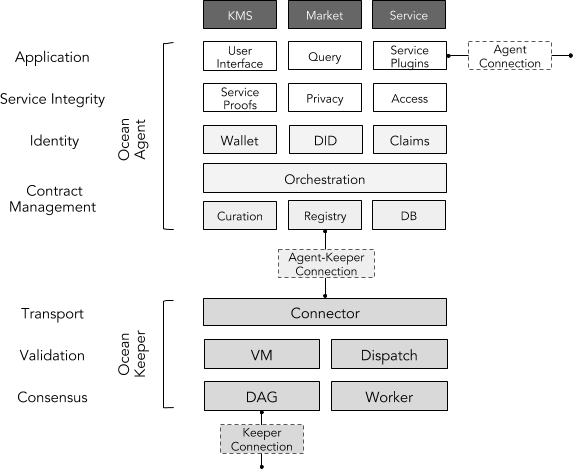
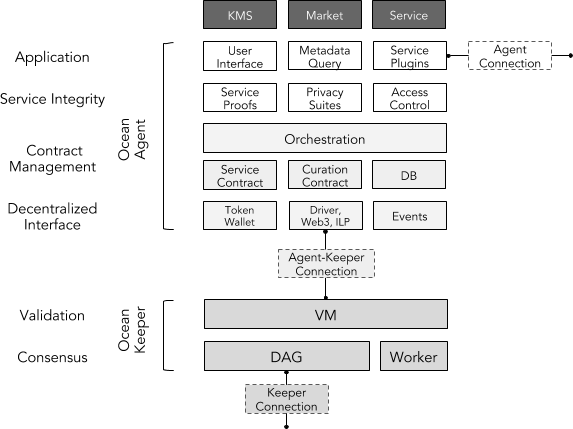
decentralized interface

diff --git a/3/README.md b/3/README.md
@@ -1,20 +1,20 @@
 ```
 shortname: 3/ARCH
-name: Ocean Protocol Architecture
+name: Ocean Protocol Network Architecture
 type: Standard
 status: Raw
-editor: Aitor Argomaniz <aitor@oceanprotocol.com>
-contributors: Dimitri De Jonghe <dimi@oceanprotocol.com>
+editor: Dimitri De Jonghe <dimi@oceanprotocol.com>
+contributors: Aitor Argomaniz <aitor@oceanprotocol.com>
 ```
 
-# Ocean Protocol Architecture
+# Ocean Protocol Network Architecture
 
 This document gives an overview of the Ocean Network Architecture. 
 It specifies what components can be found in the network and how they interact with each other.
 
 This specification is based on [Ocean Protocol technical whitepaper](https://github.com/oceanprotocol/whitepaper).
 
-This specification is called **NETWORK** henceforth.
+This specification is called **ARCH** henceforth.
 
 ## Change Process
 This document is governed by the [2/COSS](../2/README.md) (COSS).
@@ -25,24 +25,28 @@ The key words "MUST", "MUST NOT", "REQUIRED", "SHALL", "SHALL NOT", "SHOULD", "S
 ## Motivation
 
 Ocean Protocol connects data service PROVIDERS with CONSUMERS using 
- agreements to ensure payments, audit trails and privacy.
+contractual agreements to ensure attribution, payments, audit trails and privacy.
+Data service providers are seen in the broad sense of a data intelligence ecosystem:
+data, scripts, algorithms, storage, computation, scheduling, privacy and more. 
 
-The NETWORK covers a conceptual framework for provisioning contractual CONNECTIONS,
-an overview of the Ocean Network architecture and it's building blocks,
+The ARCH covers a conceptual framework for provisioning contractual CONNECTIONS,
+an overview of the network architecture and it's building blocks,
 as well as a suite of protocols that implements the design. 
 
-This NETWORK is heavily inspired by the Internet architecture described in 
+This ARCH is inspired by 
+the [web3.js](https://github.com/ethereum/web3.js/) implementation, 
+the Internet architecture described in 
 [RFC 1122](https://tools.ietf.org/html/rfc1122), 
 [RFC 1123](https://tools.ietf.org/html/rfc1123) and 
 [RFC 1009](https://tools.ietf.org/html/rfc1009) and the 
 [Interledger Protocol (ILP)](https://github.com/interledger/rfcs/blob/master/0001-interledger-architecture/0001-interledger-architecture.md#interledger-architecture).
 
-This document MUST to provide a common framework used describing the network together with the relevant components, protocols and interactions. 
+This document MUST provide a common framework used describing the network together with the relevant components, protocols and interactions. 
 All the different components described SHOULD be used as building blocks, allowing to compose the different scenarios using them.
 
 ## Design Requirements
 
-The following design requirements should guide the development of the Ocean Protocol:
+The following design requirements guide the development of the Ocean Protocol:
 
 * MUST use an open protocol, accessible to clients using any technology stack
 * MUST be decentralized in ownership of vision, mission, governance, implementation and usage
@@ -56,7 +60,8 @@ The following design requirements should guide the development of the Ocean Prot
     - Machine learning operations
     - Data interaction and visualisation libraries
 * MUST support off-chain operations for storage and compute
-* MUST enable interoperability (i.e. sharing of data assets and services) between multiple marketplace implementations and multiple technology stacks
+* MUST enable interoperability (i.e. sharing of data assets and services) between multiple marketplace implementations 
+and multiple decentralized and centralized technology stacks 
 * MUST store a record of all asset provenance
 * MUST allow metadata governance (as defined by domain specific use cases)
 * MUST allow custom control logic for assets and interactions
@@ -69,8 +74,13 @@ The following design requirements should guide the development of the Ocean Prot
 Ocean protocol facilitates a decentralized network to connect data services in a data service supply chain.
 
 Decentralization impacts the network design in the following ways:
-- there are no centralized services, message or identity brokers
-- connections between points in the network are self-sovereign and contractual by consensus
+
+- there are no centralized components at the protocol level
+- nodes in the network are assumed to be Byzantine and Sybil actors
+- events and messages in the network are recorded as signed transactions
+- the full history of transactions is stored as a cryptographically linked data structure
+- business logic that triggers state transitions  
+
 
 ![Combination of Building Blocks](images/ocean-model.png)
 
@@ -165,7 +175,7 @@ A blockchain component with smart contract abilities:
 * Interacts with the AGENTS through transactions. 
 * Executes the Smart Contracts. The VM serves as a deterministic state transition mechanism.
 * Stores transactions, blocks and contract state - such as bytecode, proofs, variables - in a Directed Acyclic Graph (DAG). 
-* Is a validation engine for Unspent Transaction Outputs (UTXO) and contract logic.
+* Is a validation engine for transaction and contract logic.
 * MUST be [power-fault tolerant](https://filecoin.io/power-fault-tolerance.pdf) (PFT) 
 
 #### Ocean DB
@@ -273,7 +283,7 @@ Details of the privacy module are discussed in [#TODO:OEP-PRIVACY](../<PRIVACY>/
 
 #### Access Control
 
-Service CONTRACTs in the Ocean network are the basis for access permissions between AGENTS.
+Service CONTRACTS in the Ocean network are the basis for access permissions between AGENTS.
 The access layer foresees CONTRACT-based authentication and authorization for end-to-end CONNECTIONS.
 
 The way access can be granted depends heavily on the type of data service and MAY include
@@ -281,44 +291,39 @@ signed tokens, signed URLs, on-chain role-based access control (RBAC), OAuth and
 
 Details of the access module are discussed in [#TODO:OEP-ACCESS](../<ACCESS>/README.md) 
 
-### Identity Layer
-
-The Identity layer provides modules to create sufficient network-specific identity components such as wallets, 
-decentralized identity objects and publicly verifiable claims related to identity.
-
-This layer provides account management libraries and ensures that ledger-specific transactions can be composed and signed.
-
-Details of the identity layer are discussed in [#TODO:OEP-IDENTITY](../<TRANSPORT>/README.md) 
 
 ### Contract Management 
 
-Transport layer protocols foresee the coordination of a service CONTRACT between all involved AGENTS and KEEPER networks.
+The contract management layer foresees the coordination of a service CONTRACT between all involved AGENTS and KEEPER networks.
 
 Example contract protocols include peer-to-peer escrow contracts, marketplace-based contracts, 
 as well as CONTRACT resolution mechanisms such as judging and verification.
 
+Details of the contract management layer are discussed in [#TODO:OEP-CONTRACT-MANAGEMENT](../<CONTRACT-MANAGEMENT>/README.md) 
+
+### Decentralized Interface
+
+The decentralized interface layer provides modules to create sufficient token and network specific components such as wallets and drivers
+This layer provides account management libraries and ensures that ledger-specific transactions can be composed and signed.
+
 This layer SHOULD also listen to events generated by state changes on the keeper 
 and provide necessary callbacks and hooks. 
 
-Details of the contract management layer are discussed in [#TODO:OEP-CONTRACT-MANAGEMENT](../<CONTRACT-MANAGEMENT>/README.md) 
-
-### Transport Layer
-
-The bridge layer is responsible for forwarding packets between AGENTS. There is only one protocol on this layer.
-
-The bridge protocol defines standard address and packet formats that instruct CONNECTORS where to forward a packet.
-Bridge addresses provide a universal way to address AGENTS, KEEPERS and CONNECTORS.
-
-Details of the bridge layer are discussed in [#TODO:OEP-TRANSPORT](../<BRIDGE>/README.md) 
+Details of the identity layer are discussed in [#TODO:OEP-WALLET](../<WALLET>/README.md) 
 
 ### Validation Layer
 
-- plugin system to convert Bridge protocol packages to ledger-specific contracts and transactions
+The validation layer is where an Ocean KEEPER runs the logic of smart contracts and validates
+transactions
 
-Details of the access layer are discussed in [#TODO:OEP-ACCESS](../<ACCESS>/README.md) 
+Details of the access layer are discussed in [#TODO:OEP-VM](../<VM>/README.md) 
 
 ### Consensus Layer
 
-- decentralized coordination between nodes, gossip protocols
+This layer orchestrates decentralized coordination between KEEPERS and includes gossip protocols for inter-KEEPER communication
 
-Details of the access layer are discussed in [#TODO:OEP-ACCESS](../<ACCESS>/README.md) 
+This layer also includes the cryptographic data structures to store state transitions.
+
+OPTIONALLY this layer implements worker logic to validate and generate cryptographic proofs. 
+
+Details of the access layer are discussed in [#TODO:OEP-CONSENSUS](../<CONSENSUS>/README.md) 
